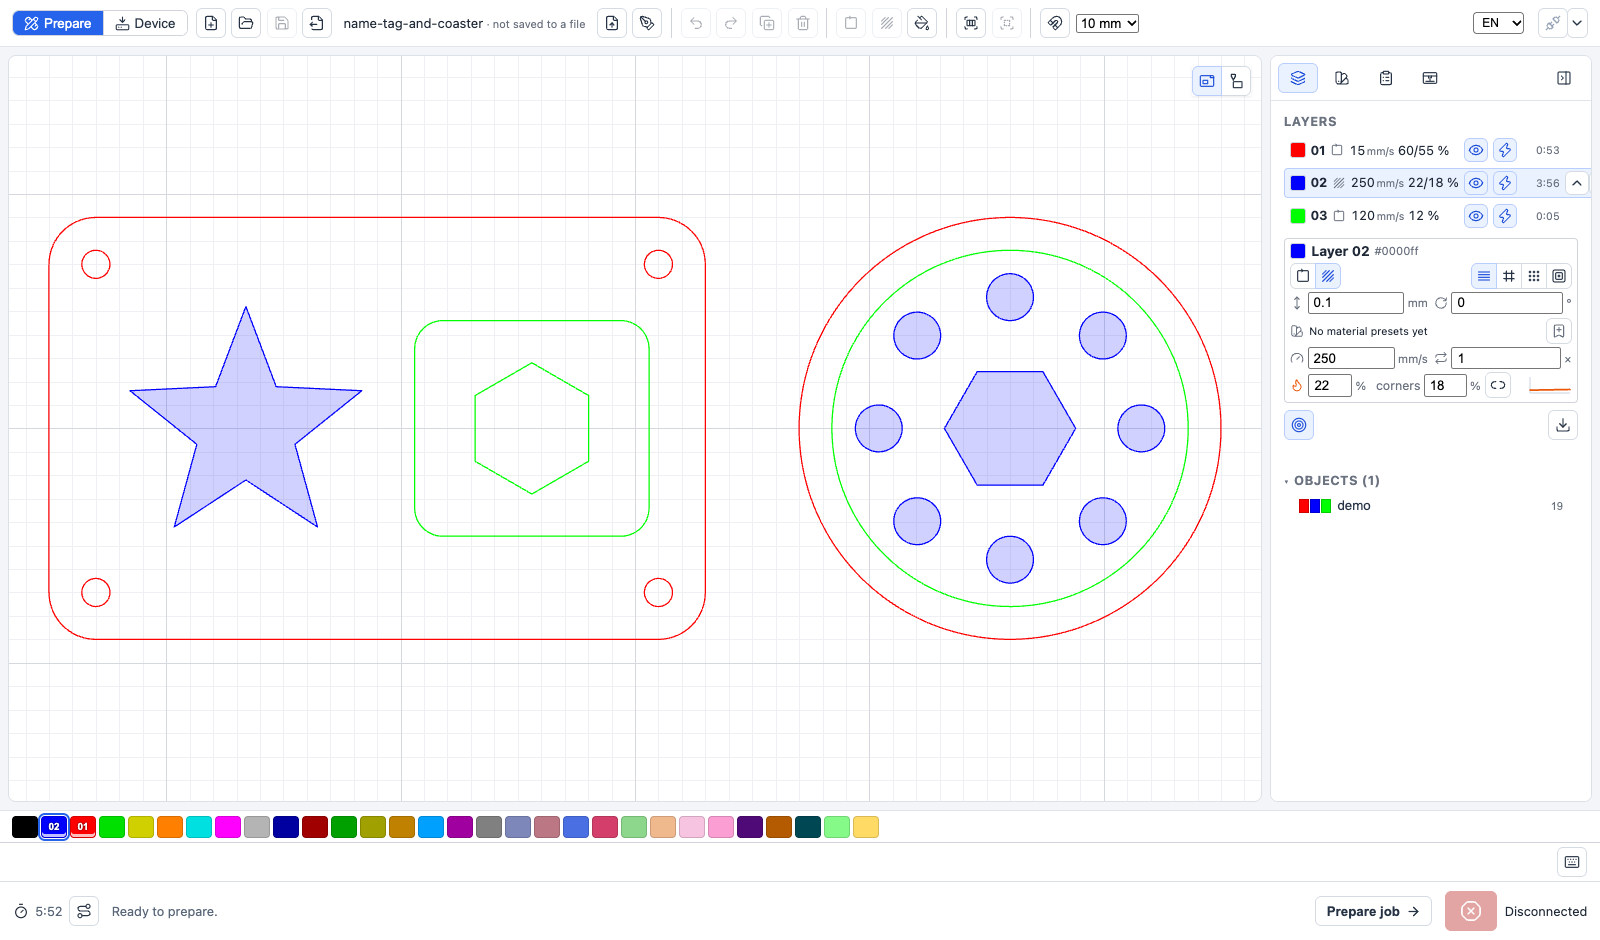
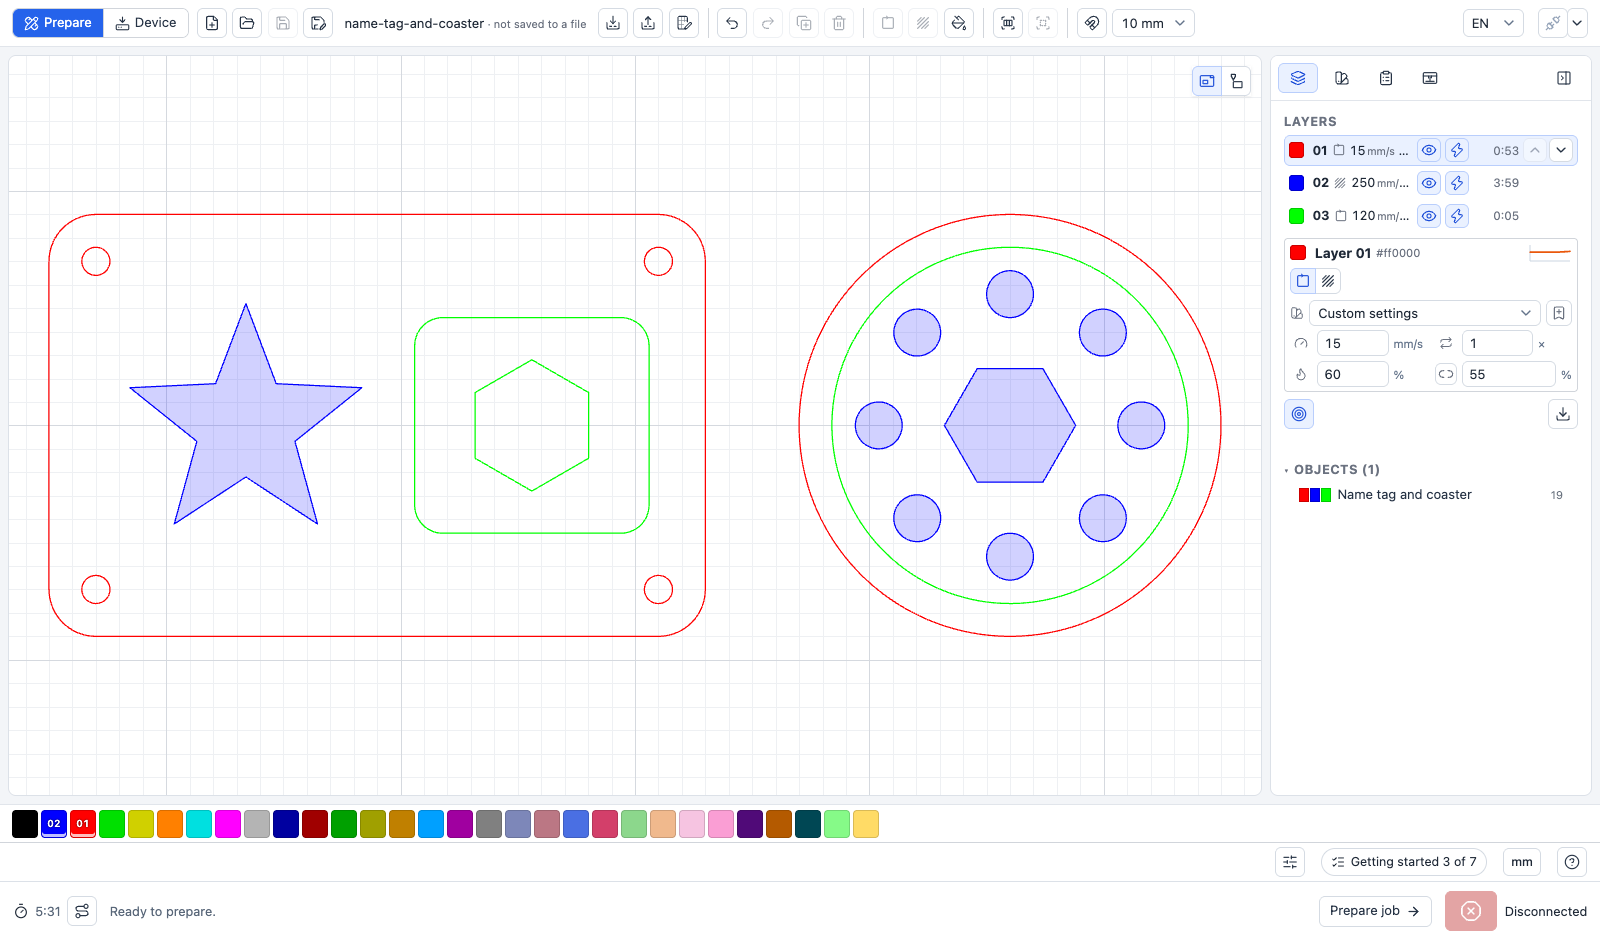
README: new screenshots; first run and help section
Refreshes the prepare, sketch, device and machine screenshots and adds the
welcome screen, Getting started checklist and connection help.

diff --git a/README.md b/README.md
@@ -63,14 +63,29 @@ simulator works without a machine.
 
 | | |
 |---|---|
-| ![Sketch mode with a DXF opened as an editable sketch](screenshots/sketch.png) | ![Device mode with the toolpath preview and the job summary](screenshots/device.png) |
-| **Sketch mode.** Any DXF opens as a sketch. The toolbar has drawing, modify, dimension and constraint tools; it shows the remaining degrees of freedom. | **Device mode.** The planned job, with travel moves as dashed lines. The fills (blue) run before the cuts around them, one part at a time. The Job tab lists the time, cut and travel lengths, the order and the files on the machine. |
-| ![Machine tab with head position, jog pad and Go to](screenshots/machine.png) | |
-| **Machine tab.** The head position, hold-to-jog pad, Go to and the machine profile. Here it is connected to the built-in simulator. | |
+| ![The welcome screen on first start: language, kind of machine and how to start](screenshots/welcome.png) | ![Sketch mode with a DXF opened as an editable sketch](screenshots/sketch.png) |
+| **Welcome.** The first start asks for the language and the kind of machine, then opens the sample, an empty bed or the simulator. | **Sketch mode.** Any DXF opens as a sketch, named at the top. The toolbar has drawing, modify, dimension and constraint tools; it shows the remaining degrees of freedom. |
+| ![Device mode with the toolpath preview and the job summary](screenshots/device.png) | ![Machine tab with head position, jog pad and Go to](screenshots/machine.png) |
+| **Device mode.** The planned job, with travel moves as dashed lines. The fills (blue) run before the cuts around them, one part at a time. The Job tab lists the time, size, cut and travel lengths and the layers, and suggests fixes for uneven engraving. | **Machine tab.** The head position, hold-to-jog pad, Go to and the machine profile. Here it is connected to the built-in simulator. |
+| ![The Getting started checklist with five of seven steps done](screenshots/checklist.png) | ![Connection help with the five things to check](screenshots/connection-help.png) |
+| **Getting started.** A checklist from choosing the machine to the first job; steps tick off as you do them. | **Connection help.** Power, cable, driver, other programs holding the port and the browser, with a button that copies diagnostics for a bug report. |
 
 The design in these screenshots is [`samples/demo.dxf`](samples/demo.dxf).
 
 ## Features in detail
+
+### First run and help
+
+- **Welcome screen** on the first start: pick the language and the kind of machine (it sets typical speed-up,
+  start speed and starting materials), then open the sample, start with an empty bed, or try the simulator with no
+  laser attached. Help → Welcome guide opens it again.
+- **Getting started** checklist in the status bar: choose the machine, put a drawing on the bed, set speed and
+  power per colour, prepare the job, connect, frame and start. Steps tick off by themselves; the list can be
+  hidden.
+- **Help menu** (? at the bottom right): the welcome guide, keyboard shortcuts, connection help, Copy diagnostics
+  (version, browser, connection and recent controller traffic, for bug reports) and the safety notes.
+- **Update notice:** when a new version is published, a notice offers to reload.
+- **Units:** the mm / in button next to Help switches the display to inches (see below).
 
 ### Drawing and sketches
 
@@ -254,9 +269,10 @@ npm ci
 npm run dev
 ```
 
-Open the localhost URL printed by Vite. Try the simulator before connecting hardware: open the connection menu
-next to the plug icon (top right), pick **Simulator** and connect. Then import `samples/demo.dxf`, press
-**Prepare job** and explore Device mode.
+Open the localhost URL printed by Vite (or the [beta site](https://alikhan-yessaly.github.io/beamforge/)). The
+welcome screen asks for the language and the kind of machine; choose **Try the simulator** to explore without
+hardware, then follow the **Getting started** checklist in the status bar: prepare the sample job, connect, frame
+and start. Later, the connection menu next to the plug icon (top right) switches between USB and the simulator.
 
 Run `npm test` and `npm run build` to validate changes.
 
